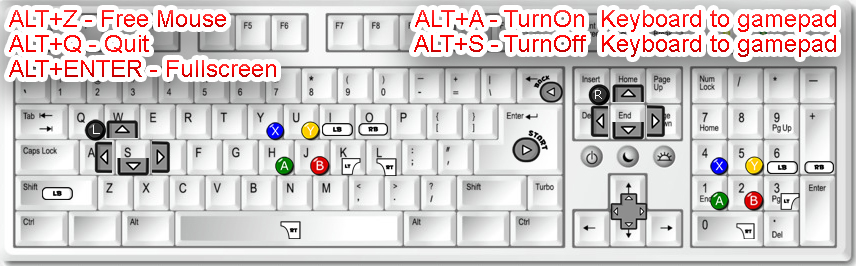
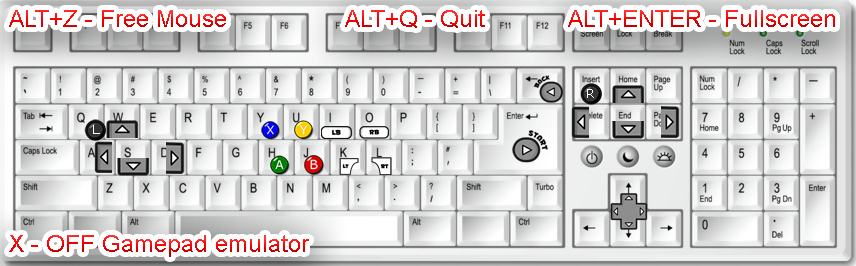
Keys

diff --git a/app/gui/StreamSegue.qml b/app/gui/StreamSegue.qml
@@ -162,7 +162,7 @@ Item {
             // in the hintText control itself to synchronize
             // with Session.exec() which requires no concurrent
             // gamepad usage.
-            hintText.text = qsTr("Tip:") + " " + qsTr("ALT+H/keyboard, ALT+Enter/Fullscreen, %1/Quit").arg(SdlGamepadKeyNavigation.getConnectedGamepads() > 0 ?
+            hintText.text = qsTr("Tip:") + " " + qsTr("ALT+Enter/Fullscreen, ALT+C/keyboard, %1/Quit").arg(SdlGamepadKeyNavigation.getConnectedGamepads() > 0 ?
                                                   qsTr("Start+Select+L1+R1") : qsTr("ALT+Q"))
 
             // Stop GUI gamepad usage now

diff --git a/app/vigem/vigemkeymapper.cpp b/app/vigem/vigemkeymapper.cpp
@@ -55,32 +55,32 @@ VigemKeyMapper VigemKeyMapper::createDefault()
 {
     VigemKeyMapper mapper;
 
-    mapper.keyMap[ButtonA] = Qt::Key_A;
-    mapper.keyMap[ButtonB] = Qt::Key_B;
-    mapper.keyMap[ButtonX] = Qt::Key_C;
-    mapper.keyMap[ButtonY] = Qt::Key_D;
-    mapper.keyMap[ButtonLeft] = Qt::Key_E;
-    mapper.keyMap[ButtonRight] = Qt::Key_F;
-    mapper.keyMap[ButtonUp] = Qt::Key_G;
-    mapper.keyMap[ButtonDown] = Qt::Key_H;
-    mapper.keyMap[ButtonStart] = Qt::Key_I;
-    mapper.keyMap[ButtonBack] = Qt::Key_J;
-    mapper.keyMap[ButtonLThumb] = Qt::Key_K;
-    mapper.keyMap[ButtonRThumb] = Qt::Key_L;
-    mapper.keyMap[ButtonLShoulder] = Qt::Key_M;
-    mapper.keyMap[ButtonRShoulder] = Qt::Key_N;
-    mapper.keyMap[ButtonLTrigger] = Qt::Key_O;
-    mapper.keyMap[ButtonRTrigger] = Qt::Key_P;
-    mapper.keyMap[ButtonLThumbLeft] = Qt::Key_Q;
-    mapper.keyMap[ButtonLThumbRight] = Qt::Key_R;
-    mapper.keyMap[ButtonLThumbUp] = Qt::Key_S;
-    mapper.keyMap[ButtonLThumbDown] = Qt::Key_T;
-    mapper.keyMap[ButtonRThumbLeft] = Qt::Key_U;
-    mapper.keyMap[ButtonRThumbRight] = Qt::Key_V;
-    mapper.keyMap[ButtonRThumbUp] = Qt::Key_W;
-    mapper.keyMap[ButtonRThumbDown] = Qt::Key_X;
-  //  mapper.keyMap[ButtonStartup] = Qt::Key_Y;
-    mapper.keyMap[ButtonShutdown] = Qt::Key_Z;
+    mapper.keyMap[ButtonA] = Qt::Key_H;
+    mapper.keyMap[ButtonB] = Qt::Key_J;
+    mapper.keyMap[ButtonX] = Qt::Key_Y;
+    mapper.keyMap[ButtonY] = Qt::Key_U;
+    mapper.keyMap[ButtonLeft] = Qt::Key_Left;
+    mapper.keyMap[ButtonRight] = Qt::Key_Right;
+    mapper.keyMap[ButtonUp] = Qt::Key_Up;
+    mapper.keyMap[ButtonDown] = Qt::Key_Down;
+    mapper.keyMap[ButtonStart] = Qt::Key_Return;
+    mapper.keyMap[ButtonBack] = Qt::Key_Backspace;
+    mapper.keyMap[ButtonLThumb] = Qt::Key_Q;
+    mapper.keyMap[ButtonRThumb] = Qt::Key_Insert;
+    mapper.keyMap[ButtonLShoulder] = Qt::Key_K;
+    mapper.keyMap[ButtonRShoulder] = Qt::Key_L;
+    mapper.keyMap[ButtonLTrigger] = Qt::Key_I;
+    mapper.keyMap[ButtonRTrigger] = Qt::Key_O;
+    mapper.keyMap[ButtonLThumbLeft] = Qt::Key_A;
+    mapper.keyMap[ButtonLThumbRight] = Qt::Key_D;
+    mapper.keyMap[ButtonLThumbUp] = Qt::Key_W;
+    mapper.keyMap[ButtonLThumbDown] = Qt::Key_S;
+    mapper.keyMap[ButtonRThumbLeft] = Qt::Key_Delete;
+    mapper.keyMap[ButtonRThumbRight] = Qt::Key_PageDown;
+    mapper.keyMap[ButtonRThumbUp] = Qt::Key_Home;
+    mapper.keyMap[ButtonRThumbDown] = Qt::Key_End;
+ // mapper.keyMap[ButtonStartup] = Qt::Key_Y;
+    mapper.keyMap[ButtonShutdown] = Qt::Key_X;
 
     return mapper;
 }

diff --git a/app/streaming/input/input.cpp b/app/streaming/input/input.cpp
@@ -102,8 +102,8 @@ SdlInputHandler::SdlInputHandler(StreamingPreferences& prefs, NvComputer*, int s
     m_SpecialKeyCombos[KeyComboToggleMouseMode].enabled = true;
 
     m_SpecialKeyCombos[KeyComboToggleCursorHide].keyCombo = KeyComboToggleCursorHide;
-    m_SpecialKeyCombos[KeyComboToggleCursorHide].keyCode = SDLK_c;
-    m_SpecialKeyCombos[KeyComboToggleCursorHide].scanCode = SDL_SCANCODE_C;
+    m_SpecialKeyCombos[KeyComboToggleCursorHide].keyCode = SDLK_v;
+    m_SpecialKeyCombos[KeyComboToggleCursorHide].scanCode = SDL_SCANCODE_V;
     m_SpecialKeyCombos[KeyComboToggleCursorHide].enabled = true;
 
     m_SpecialKeyCombos[KeyComboToggleMinimize].keyCombo = KeyComboToggleMinimize;
@@ -112,8 +112,8 @@ SdlInputHandler::SdlInputHandler(StreamingPreferences& prefs, NvComputer*, int s
     m_SpecialKeyCombos[KeyComboToggleMinimize].enabled = QGuiApplication::platformName() != "eglfs";
 
     m_SpecialKeyCombos[KeyComboPasteText].keyCombo = KeyComboPasteText;
-    m_SpecialKeyCombos[KeyComboPasteText].keyCode = SDLK_v;
-    m_SpecialKeyCombos[KeyComboPasteText].scanCode = SDL_SCANCODE_V;
+    m_SpecialKeyCombos[KeyComboPasteText].keyCode = SDLK_b;
+    m_SpecialKeyCombos[KeyComboPasteText].scanCode = SDL_SCANCODE_B;
     m_SpecialKeyCombos[KeyComboPasteText].enabled = true;
 
     m_SpecialKeyCombos[KeyComboTogglePointerRegionLock].keyCombo = KeyComboTogglePointerRegionLock;
@@ -122,8 +122,8 @@ SdlInputHandler::SdlInputHandler(StreamingPreferences& prefs, NvComputer*, int s
     m_SpecialKeyCombos[KeyComboTogglePointerRegionLock].enabled = true;
 
     m_SpecialKeyCombos[KeyComboActivateVigem].keyCombo = KeyComboActivateVigem;
-    m_SpecialKeyCombos[KeyComboActivateVigem].keyCode = SDLK_h;
-    m_SpecialKeyCombos[KeyComboActivateVigem].scanCode = SDL_SCANCODE_H;
+    m_SpecialKeyCombos[KeyComboActivateVigem].keyCode = SDLK_c;
+    m_SpecialKeyCombos[KeyComboActivateVigem].scanCode = SDL_SCANCODE_C;
     m_SpecialKeyCombos[KeyComboActivateVigem].enabled = true;
 
 
